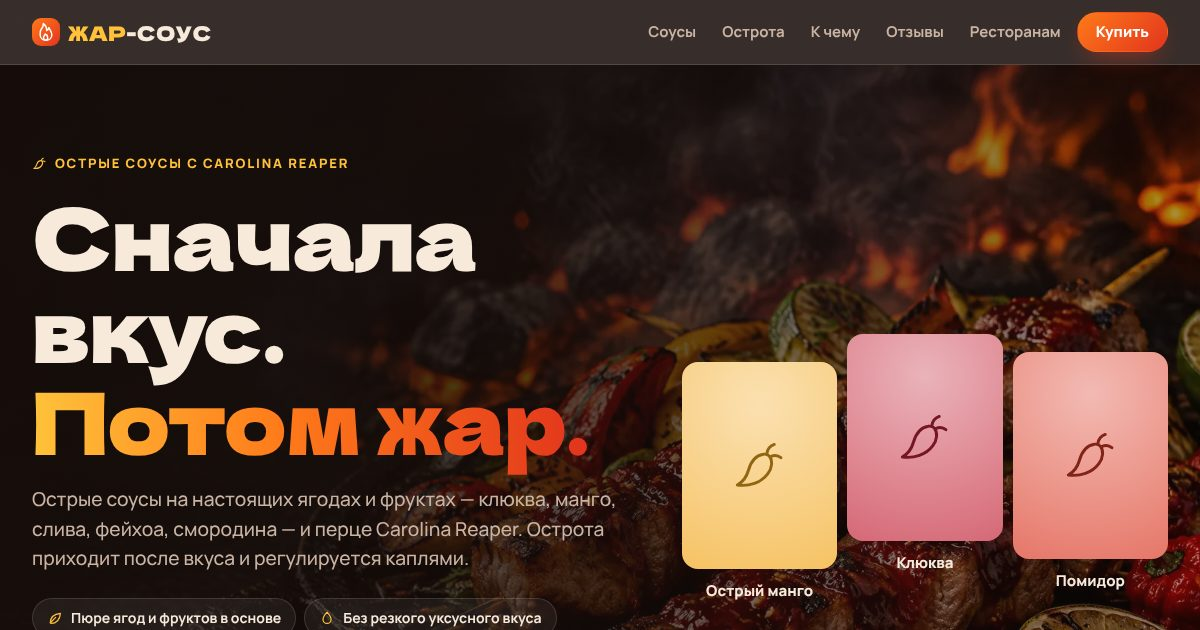
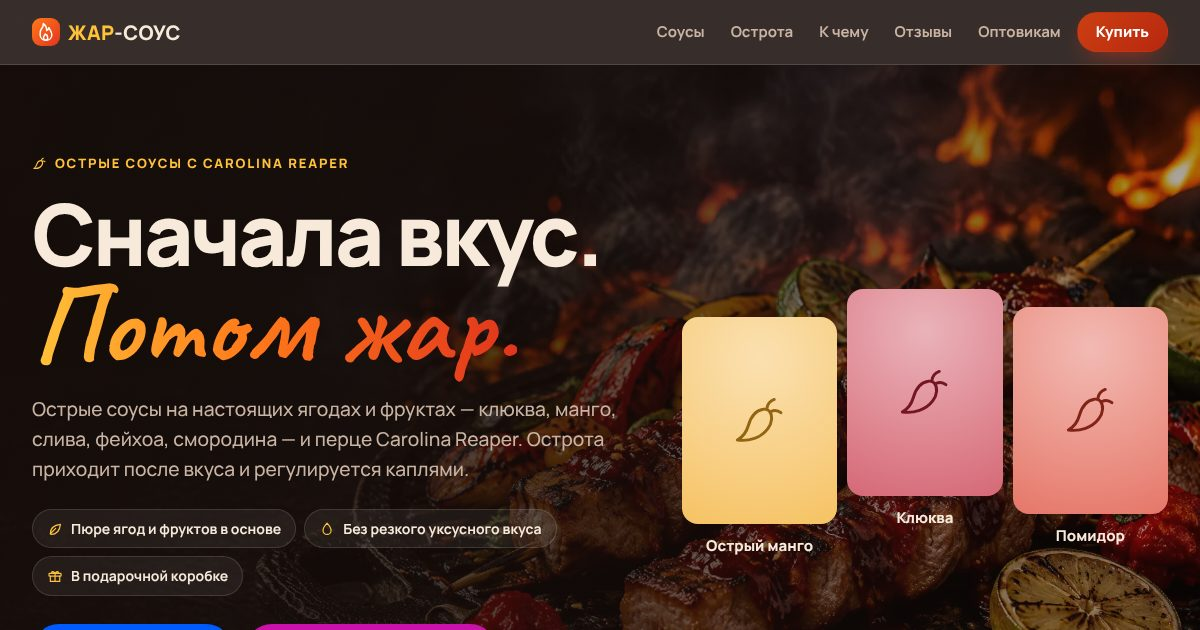
Жар-соус: заголовки Manrope вместо Dela Gothic One, рукописные акценты Caveat («Потом жар.», «держите сметану», «не уберут в шкаф»); новое превью ссылки
Claude-Session: https://claude.ai/code/session_01VH1mLUUSmG5aqJHtMjeZkS

diff --git a/zhar/src/style.css b/zhar/src/style.css
@@ -18,7 +18,9 @@
   --ember: #ffc23a;
   --ozon: #005bff;
   --wb: #cb11ab;
-  --display: "Dela Gothic One", "Arial Black", Impact, sans-serif;
+  /* заголовки — Manrope, рукописные акценты — Caveat (как письмо от создателей в коробке) */
+  --display: "Manrope", system-ui, -apple-system, "Segoe UI", Roboto, sans-serif;
+  --hand: "Caveat", "Comic Sans MS", cursive;
   --body: "Manrope", system-ui, -apple-system, "Segoe UI", Roboto, sans-serif;
   --r: 16px;
   --r-lg: 26px;
@@ -165,13 +167,14 @@ button {
   align-items: center;
   gap: 8px;
   font-family: var(--display);
+  font-weight: 800;
   font-size: 20px;
   letter-spacing: 0.02em;
   text-decoration: none;
   color: var(--on-dark);
 }
 .logo b {
-  font-weight: 400;
+  font-weight: 800;
   color: var(--ember);
 }
 .logo__ic {
@@ -306,6 +309,7 @@ button {
   min-height: 56px;
   border-bottom: 1px solid var(--line-dark);
   font-family: var(--display);
+  font-weight: 800;
   font-size: 1.25rem;
   text-decoration: none;
   color: var(--on-dark);
@@ -396,10 +400,10 @@ body.menu-open {
 .sec__title,
 .hero__title {
   margin: 0;
+  letter-spacing: -0.035em;
   font-family: var(--display);
-  font-weight: 400;
+  font-weight: 800;
   line-height: 1.08;
-  letter-spacing: -0.01em;
   text-wrap: balance;
 }
 .sec__title {
@@ -625,6 +629,7 @@ body.menu-open {
   background: linear-gradient(90deg, var(--fire), var(--flame));
   color: #fff;
   font-family: var(--display);
+  font-weight: 800;
   font-size: 15px;
   letter-spacing: 0.04em;
 }
@@ -766,7 +771,7 @@ body.menu-open {
 .card__name {
   margin: 0;
   font-family: var(--display);
-  font-weight: 400;
+  font-weight: 800;
   font-size: clamp(1rem, 0.92rem + 0.4vw, 1.25rem);
   line-height: 1.15;
 }
@@ -913,6 +918,7 @@ body.menu-open {
 .scale__val {
   white-space: nowrap;
   font-family: var(--display);
+  font-weight: 800;
   font-size: 15px;
   color: var(--muted-dark);
 }
@@ -1081,7 +1087,7 @@ body.menu-open {
   gap: 10px;
   margin: 0 0 14px;
   font-family: var(--display);
-  font-weight: 400;
+  font-weight: 800;
   font-size: 1.3rem;
 }
 .vs__col ul {
@@ -1144,10 +1150,11 @@ body.menu-open {
   gap: 10px;
   padding: 18px 20px 0;
   font-family: var(--display);
+  font-weight: 800;
   font-size: 1.2rem;
 }
 .step figcaption b {
-  font-weight: 400;
+  font-weight: 800;
   color: var(--fire-text);
 }
 .step p {
@@ -1176,6 +1183,7 @@ body.menu-open {
 .rev__big {
   margin: 18px 0 0;
   font-family: var(--display);
+  font-weight: 800;
   font-size: 5.4rem;
   line-height: 1;
   color: var(--fire-text);
@@ -1357,7 +1365,7 @@ body.menu-open {
 }
 .horeca__list b {
   font-family: var(--display);
-  font-weight: 400;
+  font-weight: 800;
   font-size: 1.15rem;
   color: var(--on-dark);
 }
@@ -1401,6 +1409,7 @@ body.menu-open {
   background: var(--ozon);
   color: #fff;
   font-family: var(--display);
+  font-weight: 800;
   font-size: 22px;
 }
 .shop--wb .shop__logo {
@@ -1413,7 +1422,7 @@ body.menu-open {
 }
 .shop__t b {
   font-family: var(--display);
-  font-weight: 400;
+  font-weight: 800;
   font-size: 1.3rem;
   color: var(--ink);
 }
@@ -1625,7 +1634,7 @@ body.menu-open {
 .pd__name {
   margin: 0;
   font-family: var(--display);
-  font-weight: 400;
+  font-weight: 800;
   font-size: clamp(1.6rem, 1.3rem + 1.2vw, 2.2rem);
   line-height: 1.1;
 }
@@ -1671,7 +1680,7 @@ body.menu-open {
 }
 .nutr b {
   font-family: var(--display);
-  font-weight: 400;
+  font-weight: 800;
   font-size: 1.1rem;
   color: var(--ink);
 }
@@ -1722,7 +1731,7 @@ body.menu-open {
 }
 .demand__nums b {
   font-family: var(--display);
-  font-weight: 400;
+  font-weight: 800;
   font-size: clamp(1.4rem, 1.1rem + 0.9vw, 1.9rem);
   line-height: 1.05;
   white-space: nowrap;
@@ -1765,6 +1774,7 @@ body.menu-open {
   top: 20px;
   right: 22px;
   font-family: var(--display);
+  font-weight: 800;
   font-size: 1.6rem;
   color: rgba(255, 194, 58, 0.25);
 }
@@ -1782,7 +1792,7 @@ body.menu-open {
 .opt-card h3 {
   margin: 4px 0 0;
   font-family: var(--display);
-  font-weight: 400;
+  font-weight: 800;
   font-size: 1.3rem;
 }
 .opt-card p {
@@ -1866,4 +1876,20 @@ body.menu-open {
 .spec__foot .btn--light {
   background: var(--ink);
   color: var(--paper);
+}
+
+/* рукописный акцент: «Потом жар.», «держите сметану» */
+.hand {
+  font-family: var(--hand);
+  font-weight: 700;
+  font-size: 1.3em;
+  line-height: 0.8;
+  letter-spacing: 0;
+}
+.sec__title .hand {
+  color: var(--fire-text);
+}
+.sec--fire .sec__title .hand,
+.sec--dark .sec__title .hand {
+  color: #ffd27a;
 }

diff --git a/CLAUDE.md b/CLAUDE.md
@@ -22,7 +22,7 @@
 - Заявки в админке: кнопки «Позвонить» / WhatsApp / Telegram по номеру и «Скачать в Excel» — настоящий .xlsx, собирается в браузере (`xlsx()` в `admin.js`, zip без сжатия), на сервере — `bookings&all=1`.
 - `node scripts/build.mjs` → `dist/` (Vercel: шаблоны `/barber/`, `/auto/`, `/nails/` и клиенты `/<slug>/`, у каждого демо-админка `…/admin/`; правки в ней хранятся в браузере и видны на странице: данные — в localStorage `slot-data-<slug>` со ссылками `idb:<ключ>`, сами фото и прошлые версии (последние 30; перед сохранением и перед «Вернуть исходные данные», в первый раз — исходные данные) — в IndexedDB `slot-demo` (`Slot.demoStore`; localStorage — около 5 МБ на весь адрес, все демо на Pages вместе); `vercel.json` — адреса со слешем на конце) и `release/<slug>/` (комплект для хостинга клиента). GitHub Pages: `.github/workflows/pages.yml` собирает с `SITE_BASE=/<репозиторий>` (сайт в подпапке) после пуша в основную ветку. Свой домен: демо — на https://demo.top-in.ru/<сайт>/ (с корня, без `/new/`); `dist/404.html` переводит адреса вида `/new/<сайт>/…` на `/<сайт>/…`.
 - Превью ссылок на демо (WhatsApp, Telegram, ВК): `assets/share/<сайт>.jpg` — снимок первого экрана 1200×630 без плашки демо, даты окон и статуса «Открыто до…» (`node scripts/share.mjs [сайты]` после сборки, нужен Playwright; картинки по адресу выкладки берёт из `dist/`; переснимать, когда у демо меняются первый экран, название или стиль). Сборка кладёт его в `dist/<сайт>/share.jpg` и пишет og:url / og:image с полным адресом из `SITE_URL` (в `pages.yml` — `base_url` из configure-pages, со своим доменом — он; без `SITE_URL` превью без картинки). Нет снимка — og:image из фото первого экрана.
-- Сторонний проект `zhar/` — сайт бренда острых соусов «Жар-соус» (не на движке «Слота», своя сборка `node zhar/build.mjs`, см. `zhar/README.md`). Общая сборка кладёт его черновиком в `dist/zhar/` (noindex) → https://demo.top-in.ru/zhar/. Данные — с Ozon (`zhar/src/ozon-raw.json`), фото упаковок пока ссылками на ir.ozone.ru (домен закрыт в среде; `node zhar/fetch-images.mjs`, когда откроют, затем переснять `node scripts/share.mjs zhar`).
+- Сторонний проект `zhar/` — сайт бренда острых соусов «Жар-соус» (не на движке «Слота», своя сборка `node zhar/build.mjs`, см. `zhar/README.md`; заголовки — Manrope 800, рукописные акценты `.hand` — Caveat). Общая сборка кладёт его черновиком в `dist/zhar/` (noindex) → https://demo.top-in.ru/zhar/. Данные — с Ozon (`zhar/src/ozon-raw.json`), фото упаковок пока ссылками на ir.ozone.ru (домен закрыт в среде; `node zhar/fetch-images.mjs`, когда откроют, затем переснять `node scripts/share.mjs zhar`).
 - Фото: `python3 scripts/images.py <исходники> clients/<slug>/img` или `assets/img/<ниша>`. В конфиге ниши путь от корня `/assets/img/<ниша>/<файл>.webp` (сборка копирует папку в `dist/assets/img/`), у клиента — `img/<файл>.webp`. Список кадров — `docs/shotlist.md`.
 
 ## Правила
